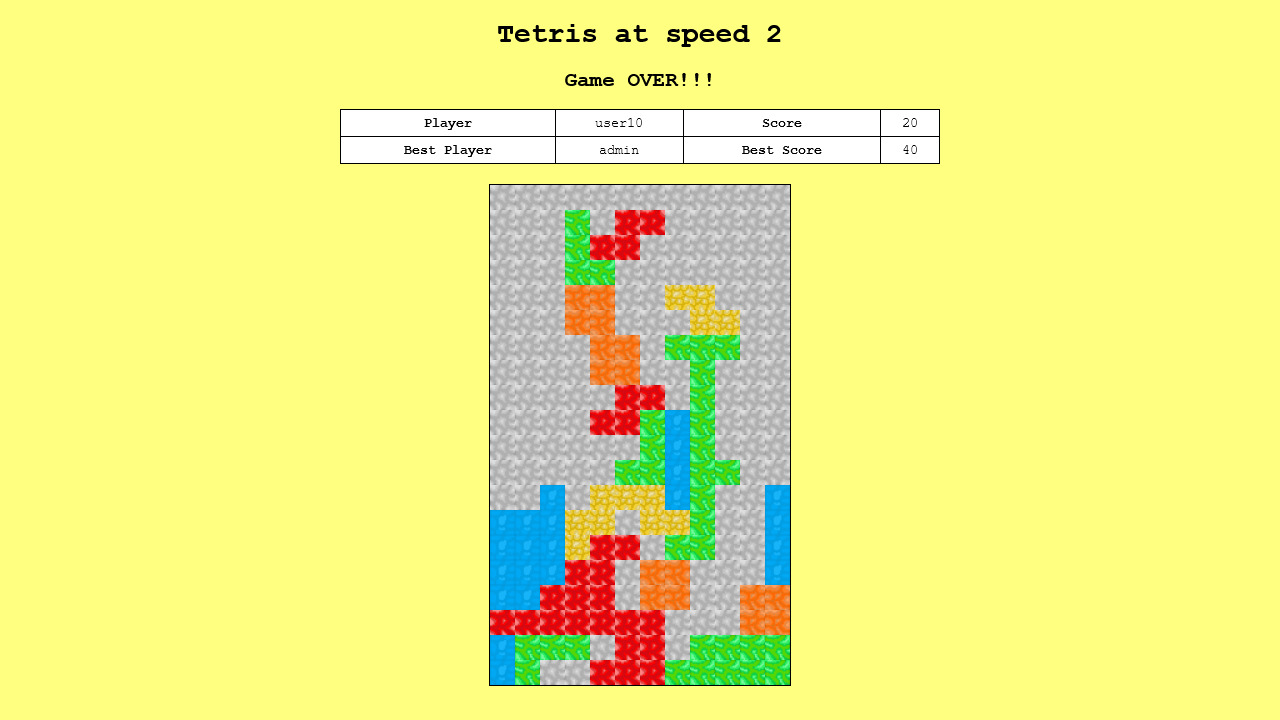
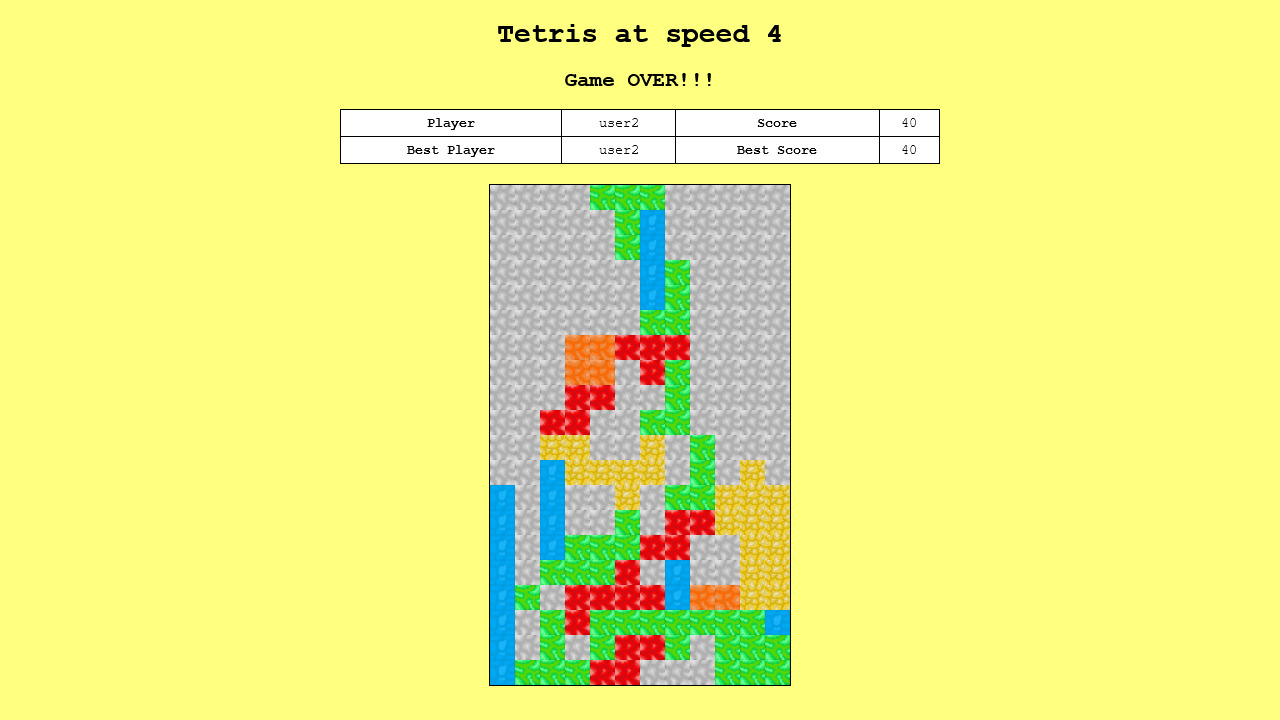
Fixed admin methods in controller

diff --git a/src/main/resources/static/html/admin.html b/src/main/resources/static/html/admin.html
@@ -144,29 +144,7 @@
         stompClient.activate();
     }
 
-    function showUsers(usersData) {
-        // Если данные приходят строкой (JSON), парсим.
-        // Если WebSocket уже отдал объект, parse не нужен.
-        const user = typeof usersData === 'string' ? JSON.parse(usersData) : usersData;
 
-        // Теперь используем чёткие имена полей из нашего Record DTO:
-        // user.id, user.username, user.roles
-        const displayRoles = user.roles || "USER";
-
-        $("#users tbody").append(`
-        <tr id="user-row-${user.id}">
-            <td>${user.id}</td>
-            <td>${user.username}</td>
-            <td>*</td> <!-- Пароль в DTO больше не передаем из соображений безопасности -->
-            <td>${displayRoles}</td>
-            <td>
-                <button class="btn-delete" onclick="deleteUser(${user.id})">
-                    DELETE
-                </button>
-            </td>
-        </tr>
-    `);
-    }
 
     function deleteUser(id) {
         if(!confirm("Are you sure you want to delete user " + id + "?")) return;
@@ -178,16 +156,63 @@
         setTimeout(() => { window.location.reload(); }, 500);
     }
 
-    function showResults(gameData) {
-        const res = typeof gameData === 'string' ? JSON.parse(gameData) : gameData;
+    function showUsers(usersData) {
+        // Парсим строку в полноценный JavaScript-массив
+        const usersList = typeof usersData === 'string' ? JSON.parse(usersData) : usersData;
 
-        $("#results tbody").append(`
-        <tr>
-            <td>${res.id}</td>
-            <td>${res.playerName}</td>
-            <td>${res.playerScore}</td>
-        </tr>
-    `);
+        // Очищаем тело таблицы, чтобы при повторных вызовах данные не дублировались
+        $("#users tbody").empty();
+
+        // Проверяем, что пришёл массив, и перебираем его в цикле
+        if (Array.isArray(usersList)) {
+            usersList.forEach(user => {
+                const displayRoles = user.roles || "USER";
+
+                $("#users tbody").append(`
+                <tr id="user-row-${user.id}">
+                    <td>${user.id}</td>
+                    <td>${user.username}</td>
+                    <td>*</td>
+                    <td>${displayRoles}</td>
+                    <td>
+                        <button class="btn-delete" onclick="deleteUser(${user.id})">
+                            DELETE
+                        </button>
+                    </td>
+                </tr>
+            `);
+            });
+        } else {
+            // На всякий случай оставляем старую одиночную логику как fallback
+            const user = usersList;
+            const displayRoles = user.roles || "USER";
+            $("#users tbody").append(`<tr id="user-row-${user.id}"><td>${user.id}</td><td>${user.username}</td><td>*</td><td>${displayRoles}</td><td><button class="btn-delete" onclick="deleteUser(${user.id})">DELETE</button></td></tr>`);
+        }
+    }
+
+    function showResults(gameData) {
+        // Парсим прилетевшую gRPC статистику в массив
+        const resultsList = typeof gameData === 'string' ? JSON.parse(gameData) : gameData;
+
+        // Очищаем таблицу результатов перед заполнением
+        $("#results tbody").empty();
+
+        // Проверяем на массив и рендерим строки в цикле
+        if (Array.isArray(resultsList)) {
+            resultsList.forEach(res => {
+                $("#results tbody").append(`
+                <tr>
+                    <td>${res.id}</td>
+                    <td>${res.playerName}</td>
+                    <td>${res.playerScore}</td>
+                </tr>
+            `);
+            });
+        } else {
+            // Фоллбэк для одиночного объекта
+            const res = resultsList;
+            $("#results tbody").append(`<tr><td>${res.id}</td><td>${res.playerName}</td><td>${res.playerScore}</td></tr>`);
+        }
     }
 
     $(function () {

diff --git a/src/main/java/com/app/game/tetris/controller/TetrisController.java b/src/main/java/com/app/game/tetris/controller/TetrisController.java
@@ -276,39 +276,48 @@ public class TetrisController {
         // 🚀 Мгновенно уходим в виртуальный поток Spring, освобождая брокер WebSocket
         applicationTaskExecutor.execute(() -> {
             try {
-                // 1. Получаем список всех пользователей через Feign/Service (блокирующий I/O в Луме)
+                // ==========================================
+                // 1. ПОДГОТОВКА И ПАКЕТНАЯ ОТПРАВКА ПОЛЬЗОВАТЕЛЕЙ
+                // ==========================================
                 List<Users> allUsersList = usersService.getAllUsers();
-                allUsersList.forEach(user -> {
-                    // 2. Формируем строку ролей
-                    String rolesString = user.getRoles().stream()
-                            .map(Roles::getName)
-                            .collect(Collectors.joining(";"));
 
-                    boolean isAdmin = rolesString.contains("ADMIN");
+                // Маппим весь список в памяти
+                List<UserResponseDTO> userDtos = allUsersList.stream()
+                        .map(user -> {
+                            String rolesString = user.getRoles().stream()
+                                    .map(Roles::getName)
+                                    .collect(Collectors.joining(";"));
 
-                    // 3. Создаем DTO и отправляем его
-                    UserResponseDTO userDto = new UserResponseDTO(
-                            user.getId(),
-                            user.getUsername(),
-                            rolesString,
-                            isAdmin
-                    );
-                    this.template.convertAndSend("/topic/users", userDto);
-                });
+                            // Безопасная проверка роли без contains() по подстроке
+                            boolean isAdmin = user.getRoles().stream()
+                                    .anyMatch(role -> "ADMIN".equals(role.getName()));
 
-                // 4. Получаем список игр через gRPC (блокирующий I/O в Луме)
-                gameService.getAllGames().forEach(game -> {
-                    log.info("📊 ОТПРАВКА НА ФРОНТ: {} - {}", game.getPlayerName(), game.getPlayerScore());
+                            return new UserResponseDTO(user.getId(), user.getUsername(), rolesString, isAdmin);
+                        })
+                        .collect(Collectors.toList());
 
-                    GameRecord recordDto = new GameRecord(
-                            game.getId(),
-                            game.getPlayerName(),
-                            game.getPlayerScore()
-                    );
-                    this.template.convertAndSend("/topic/results", recordDto);
-                });
+                // 🔥 ОТПРАВЛЯЕМ ВЕСЬ СПИСОК ОДНИМ ПАКЕТОМ (Фронтенд скажет спасибо)
+                if (!userDtos.isEmpty()) {
+                    this.template.convertAndSend("/topic/users", userDtos);
+                }
 
-                log.info("🎯 Админ-панель успешно обновлена в виртуальном потоке для пользователя {}", principal.getName());
+                // ==========================================
+                // 2. ПОДГОТОВКА И ПАКЕТНАЯ ОТПРАВКА РЕЗУЛЬТАТОВ (gRPC)
+                // ==========================================
+                var grpcGames = gameService.getAllGames();
+
+                List<GameRecord> recordDtos = grpcGames.stream()
+                        .map(game -> new GameRecord(game.getId(), game.getPlayerName(), game.getPlayerScore()))
+                        .collect(Collectors.toList());
+
+                // 🔥 ОТПРАВЛЯЕМ ВСЕ РЕЗУЛЬТАТЫ ОДНИМ ПАКЕТОМ
+                if (!recordDtos.isEmpty()) {
+                    this.template.convertAndSend("/topic/results", recordDtos);
+                }
+
+                // Один чистый лог на весь тяжелый процесс вместо сотен логов в цикле
+                log.info("🎯 Админ-панель успешно обновлена. Отправлено {} пользователей и {} игровых записей для {}",
+                        userDtos.size(), recordDtos.size(), principal.getName());
 
             } catch (Exception e) {
                 log.error("💥 Ошибка при обработке данных админки в виртуальном потоке: {}", e.getMessage(), e);
@@ -318,40 +327,63 @@ public class TetrisController {
 
     @MessageMapping("/admin/{targetUserId}")
     public void deleteUser(@DestinationVariable Long targetUserId, Principal principal) {
-        // 1. ПОЛУЧАЕМ ID МГНОВЕННО (из токена, проброшенного интерцептором)
-        String destinationId = principal.getName();
-        // 2. Распаковываем данные для логики сервисов
-        String[] parts = destinationId.split(":");
-        String userId = parts[0];
-        String username = (parts.length > 1) ? parts[1] : "Player_" + userId;
-        // 1. Проверяем роль через Authorities (которые заполнил Interceptor из JWT)
-        // Либо, если ты просто прокинул заголовок X-User-Role, проверяем его.
-        boolean isAdmin = usersService.findUserByUserName(username).getRoles().stream().anyMatch(a -> a.getName().equals("ROLE_ADMIN"));
-        System.out.println(isAdmin);
-        if (!isAdmin) {
-            this.template.convertAndSendToUser(destinationId, "/queue/alert", "You are not admin!");
-            return;
-        }
-        // 2. Проверка "не удаляй себя" по ID (теперь оба значения — это ID)
-        String currentAdminId = userId;
-        if (currentAdminId.equals(String.valueOf(targetUserId))) {
-            this.template.convertAndSendToUser(destinationId, "/queue/alert", "You cannot delete yourself!");
-            return;
-        }
-        // 3. Получаем имя удаляемого пользователя (нужно для очистки Mongo/GameService)
-        // Здесь usersService — это Feign-клиент к микросервису USERS
-        Users targetUser = usersService.findUserById(targetUserId);
-        String targetUsername = targetUser.getUsername();
-        // 4. Очистка игровых данных (локально в Тетрисе/Монго)
-        mongoService.cleanSavedGameMongodb(targetUsername);
-        mongoService.cleanImageMongodb(targetUsername, "");
-        mongoService.cleanImageMongodb(targetUsername, "deskTopSnapShot");
-        mongoService.cleanImageMongodb(targetUsername, "deskTopSnapShotBest");
-        gameService.deleteGameData(targetUsername);
-        // 5. Удаление самого пользователя в микросервисе USERS
-        usersService.deleteUser(targetUserId);
-        // 6. Обновляем список для всех админов
-        admin(principal);
+        if (principal == null) return;
+
+        // 🚀 Мгновенно уходим в фоновый виртуальный поток, полностью разгружая брокер WebSocket
+        applicationTaskExecutor.execute(() -> {
+            try {
+                String destinationId = principal.getName();
+                String[] parts = destinationId.split(":");
+                String userId = parts[0];
+                String username = (parts.length > 1) ? parts[1] : "Player_" + userId;
+
+                // 1. Безопасная проверка роли через единый стандарт (без префиксов-паразитов)
+                boolean isAdmin = usersService.findUserByUserName(username).getRoles().stream()
+                        .anyMatch(role -> "ADMIN".equals(role.getName()) || "ROLE_ADMIN".equals(role.getName()));
+
+                if (!isAdmin) {
+                    this.template.convertAndSendToUser(destinationId, "/queue/alert", "You are not admin!");
+                    return;
+                }
+
+                // 2. Проверка "не удаляй себя"
+                if (userId.equals(String.valueOf(targetUserId))) {
+                    this.template.convertAndSendToUser(destinationId, "/queue/alert", "You cannot delete yourself!");
+                    return;
+                }
+
+                log.info("🎯 Администратор {} инициировал удаление пользователя ID: {}", username, targetUserId);
+
+                // 3. Получаем имя удаляемого пользователя через Feign (Блокирующий I/O в Loom)
+                Users targetUser = usersService.findUserById(targetUserId);
+                if (targetUser == null) {
+                    this.template.convertAndSendToUser(destinationId, "/queue/alert", "Target user not found!");
+                    return;
+                }
+                String targetUsername = targetUser.getUsername();
+
+                // 4. Каскадная очистка игровых данных (gRPC / Feign вызовы эффективно паркуют поток Loom)
+                mongoService.cleanSavedGameMongodb(targetUsername);
+                mongoService.cleanImageMongodb(targetUsername, "");
+                mongoService.cleanImageMongodb(targetUsername, "deskTopSnapShot");
+                mongoService.cleanImageMongodb(targetUsername, "deskTopSnapShotBest");
+                gameService.deleteGameData(targetUsername);
+
+                // 5. Удаление самого пользователя в микросервисе USERS
+                usersService.deleteUser(targetUserId);
+
+                log.info("✅ Пользователь {} [ID: {}] успешно удален из всех подсистем", targetUsername, targetUserId);
+
+                // 6. Вызываем наш пакетный метод для мгновенного обновления панели у всех админов
+                admin(principal);
+
+            } catch (Exception e) {
+                log.error("💥 Крах операции удаления пользователя в виртуальном потоке: {}", e.getMessage(), e);
+                try {
+                    this.template.convertAndSendToUser(principal.getName(), "/queue/alert", "Error during deletion!");
+                } catch (Exception ignored) {}
+            }
+        });
     }
 
     @MessageMapping("/{moveId}")